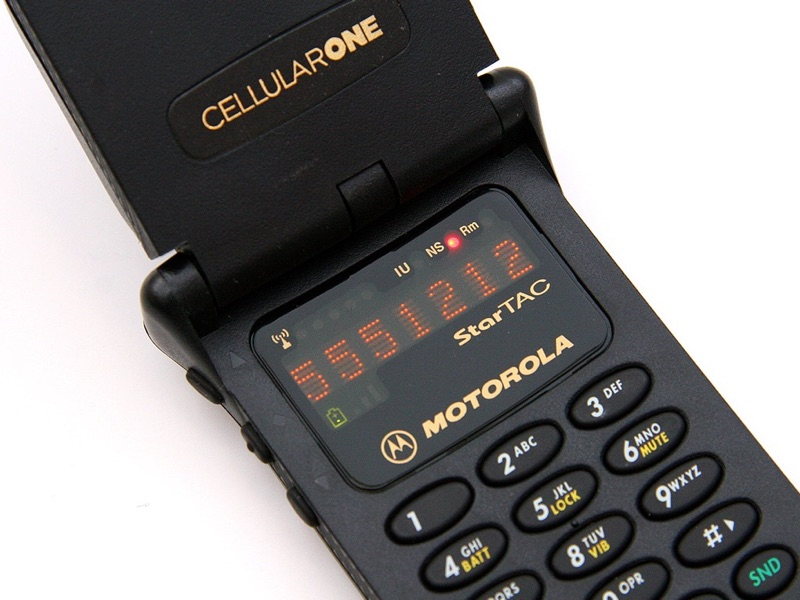
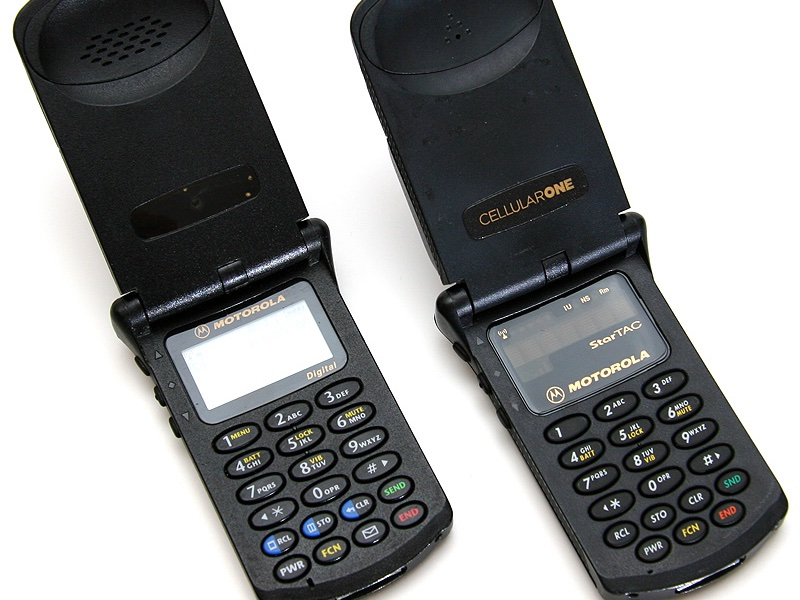
기기 이미지 전수 재검증: 잘린 4장 원본 재가공·교체
- 폴더폰(2004): 카메라 부분만 남았던 크롭 → 흰 배경 패딩으로 전신 노출
- 아이폰6(2014): 위아래 잘림 → 원본 90° 회전(정확히 4:3)으로 전체 노출
- 스타택(1999): 원본 자체가 클로즈업이라 복원 불가 → 같은 저작자의
  풀샷 사진(StarTAC 2대, CC BY 2.0)으로 교체
- 갤럭시S6(2015): 케이스 진열장 사진 → S6·S6엣지 실기기 풀샷
  (Maurizio Pesce, CC BY 2.0)으로 교체
- 캐러셀 17개 슬라이드 전량 육안 재검증 완료 (전 기기 전신 노출)

diff --git a/data/memories.ts b/data/memories.ts
@@ -3440,7 +3440,7 @@ export const MEMORIES: MemoryItem[] = [
     image: "/images/years/1999/device/1999-device-1.jpg",
     credit: {
       label: "rfdigitalwpg · Wikimedia Commons · CC BY 2.0",
-      url: "https://commons.wikimedia.org/wiki/File%3AMotorola_StarTAC_6500_Phone.jpg",
+      url: "https://commons.wikimedia.org/wiki/File:Motorola_StarTAC_Flip_Phone.jpg",
     },
     year: 1999,
     category: "device",
@@ -5487,8 +5487,8 @@ export const MEMORIES: MemoryItem[] = [
     id: "2015-device-1",
     image: "/images/years/2015/device/2015-device-1.jpg",
     credit: {
-      label: "https://www.flickr.com/p · Wikimedia Commons · CC BY 2.0",
-      url: "https://commons.wikimedia.org/wiki/File%3ASamsung_Galaxy_S6_%26_S6_edge_Accessories.jpg",
+      label: "Maurizio Pesce · Wikimedia Commons · CC BY 2.0",
+      url: "https://commons.wikimedia.org/wiki/File:Samsung_Galaxy_S6_and_Galaxy_S6_edge_(16950221219).jpg",
     },
     year: 2015,
     category: "device",

diff --git a/ASSET_SOURCES.md b/ASSET_SOURCES.md
@@ -407,7 +407,7 @@ I'd apprec · Wikimedia Commons · CC BY-SA 4.0 | https://commons.wikimedia.org/
 | 2014-photo-1 | Selfie Stick (15971758381).jpg | Jonathan Chie · Wikimedia Commons · CC BY 2.0 | https://commons.wikimedia.org/wiki/File%3ASelfie_Stick_%2815971758381%29.jpg |
 | 2014-photo-2 | Time to put the selfie stick away! | shankar s. · Flickr · CC BY 2.0 | https://www.flickr.com/photos/77742560@N06/16284619026 |
 | 2014-school-1 | (교체) | cybrgrl · Flickr · CC BY 2.0 | https://www.flickr.com/photos/84387590@N00/3116868310 |
-| 2015-device-1 | Samsung Galaxy S6 & S6 edge Accessories.jpg | https://www.flickr.com/p · Wikimedia Commons · CC BY 2.0 | https://commons.wikimedia.org/wiki/File%3ASamsung_Galaxy_S6_%26_S6_edge_Accessories.jpg |
+| 2015-device-1 | Samsung Galaxy S6 and S6 edge (실기기 교체) | Maurizio Pesce · Wikimedia Commons · CC BY 2.0 | https://commons.wikimedia.org/wiki/File:Samsung_Galaxy_S6_and_Galaxy_S6_edge_(16950221219).jpg |
 | 2015-drama-1 | Reply1988 'Hye-ri's surprising birthday party | YouTube · tvN DRAMA | https://www.youtube.com/watch?v=VBpv6Tf4om0 |
 | 2015-drama-2 | [#프로듀사] 실망한 mz #아이유 #차태현 #공효진 #김수현 #쇼츠 #short | YouTube · KBS Drama Classic | https://www.youtube.com/watch?v=nJhc0FWNXZQ |
 | 2015-fashion-1 | (교체) | GrafhP - wrbl · Flickr · CC BY 2.0 | https://www.flickr.com/photos/113695508@N03/28708968700 |
@@ -497,7 +497,7 @@ I'd apprec · Wikimedia Commons · CC BY-SA 4.0 | https://commons.wikimedia.org/
 | 1998-music-3 | S.E.S. 'Dreams Come True' MV | YouTube · SMTOWN | https://www.youtube.com/watch?v=8uiR4SrDGZk |
 | 1998-photo-1 | Vivitar Ultra Compact 35mm camera (1912616 | Matthew Paul  Argall f · Wikimedia Commons · CC BY 2.0 | https://commons.wikimedia.org/wiki/File%3AVivitar_Ultra_Compact_35mm_camera_%2819126164350%29.jpg |
 | 1998-photo-2 | (교체) | BrianAdler · Wikimedia Commons · Public Domain | https://commons.wikimedia.org/wiki/File:Photo_Sticker_Shop_in_Seoul_South_Korea.JPG |
-| 1999-device-1 | Motorola StarTAC 6500 Phone.jpg | rfdigitalwpg · Wikimedia Commons · CC BY 2.0 | https://commons.wikimedia.org/wiki/File%3AMotorola_StarTAC_6500_Phone.jpg |
+| 1999-device-1 | Motorola StarTAC Flip Phone (풀샷 교체) | rfdigitalwpg · Wikimedia Commons · CC BY 2.0 | https://commons.wikimedia.org/wiki/File:Motorola_StarTAC_Flip_Phone.jpg |
 | 1999-drama-1 | 드라마 학교(1999) #드라마 #ost #kbs #언타이틀 | YouTube · 시간을 걷는 음악 | https://www.youtube.com/watch?v=rqJ1P6jOPe0 |
 | 1999-drama-2 | ✨시청률 52.7%✨김희선-김석훈 주연! 90년대를 휩쓸었던 레전드 로코 명 | YouTube · SBS 옛날 드라마 - 빽드 | https://www.youtube.com/watch?v=qZY7apwAAFQ |
 | 1999-fashion-1 | DSC09800 compress63.jpg | Lusthunter78 · Wikimedia Commons · CC BY-SA 4.0 | https://commons.wikimedia.org/wiki/File%3ADSC09800_compress63.jpg |
